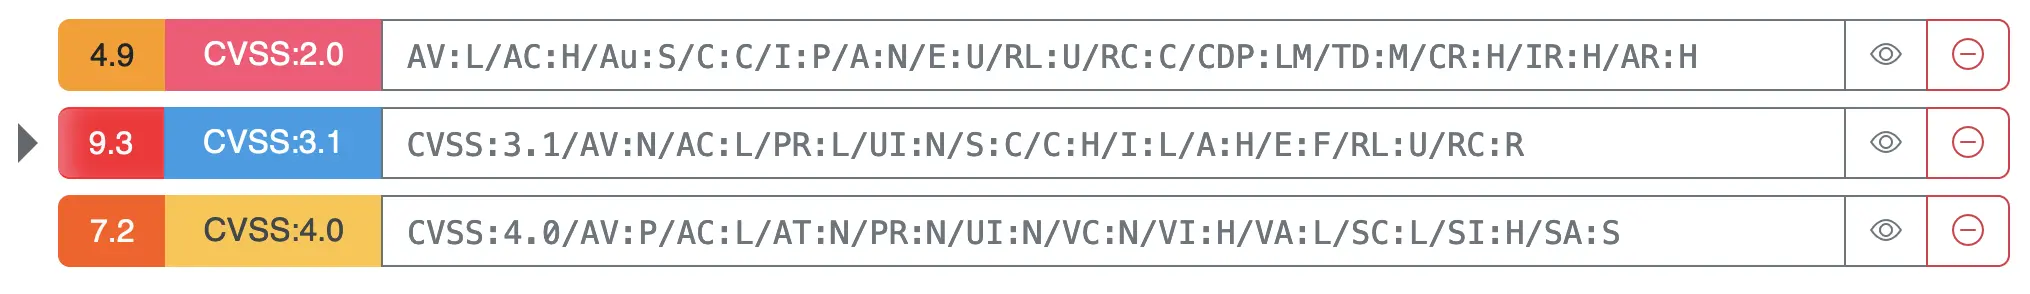
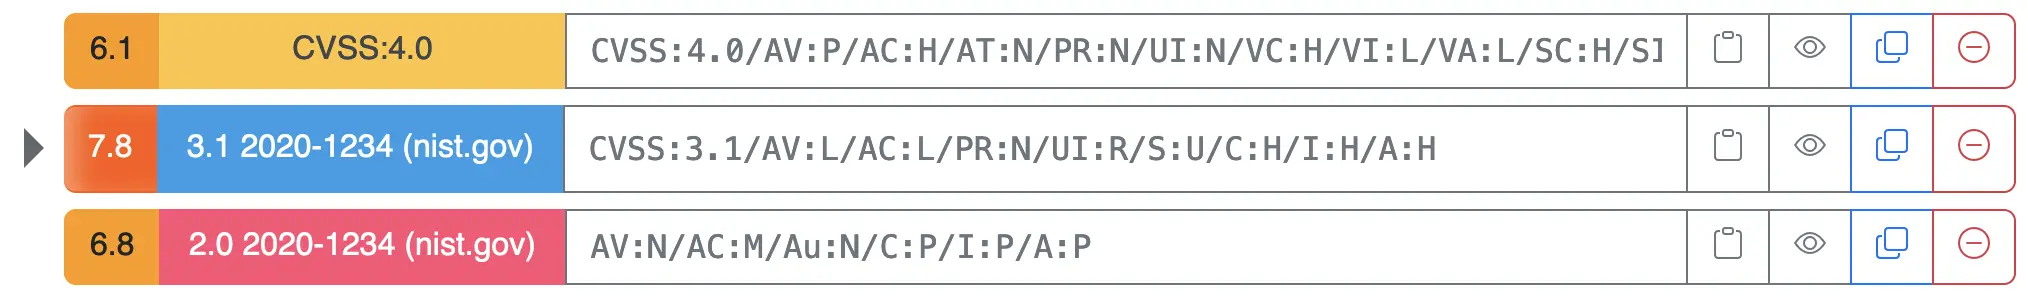
- #5 Improved NVD 2.0 API requests to be more consistent. - Vector name input fields widths will now more accurately be set to the actual content widths across the application. - Updated guide and OV images.

diff --git a/site/js/nvd-api-fetcher.js b/site/js/nvd-api-fetcher.js
@@ -15,12 +15,61 @@
  */
 
 const alreadyFetchedVulnerabilityData = {};
-const currentlyFetchingVulnerabilityData = [];
+const currentlyFetchingVulnerabilityData = new Set();
 
 const inputAddVectorByString = document.getElementById('inputAddVectorByString');
 const inputLabelDefaultContent = inputAddVectorByString.innerHTML;
 
-const fetchVulnerabilityData = async (vulnerability) => {
+function httpGet(url, params, success, failure) {
+    const queryString = Object.entries(params).map(([key, value]) => `${encodeURIComponent(key)}=${encodeURIComponent(value)}`).join('&');
+    const fullUrl = Object.keys(params).length > 0 ? `${url}?${queryString}` : url;
+
+    console.log('Fetching data from:', fullUrl);
+
+    const xhr = (() => {
+        let xhr = new XMLHttpRequest();
+        if ("withCredentials" in xhr) {
+            xhr.open('GET', fullUrl, true);
+        } else if (typeof XDomainRequest !== "undefined") {
+            xhr = new XDomainRequest();
+            xhr.open('GET', fullUrl);
+        } else {
+            return null;
+        }
+        return xhr;
+    })();
+
+    if (!xhr) {
+        console.error('CORS not supported, cannot fetch data from:', fullUrl);
+        failure('CORS not supported');
+        return;
+    }
+
+    xhr.onload = () => {
+        let response;
+        try {
+            response = JSON.parse(xhr.responseText);
+        } catch (e) {
+            console.error('Error parsing result:', e);
+            failure(e);
+            return;
+        }
+
+        try {
+            console.log('Success:', response);
+            success(response);
+        } catch (e) {
+            console.error('Error processing result:', e);
+            failure(e);
+        }
+    };
+
+    xhr.onerror = () => failure();
+
+    xhr.send();
+}
+
+async function fetchVulnerabilityData(vulnerability) {
     if (!vulnerability || vulnerability === 'null' || vulnerability === 'undefined') {
         return null;
     }
@@ -28,95 +77,63 @@ const fetchVulnerabilityData = async (vulnerability) => {
         return alreadyFetchedVulnerabilityData[vulnerability];
     }
 
-    if (currentlyFetchingVulnerabilityData.includes(vulnerability)) {
+    if (currentlyFetchingVulnerabilityData.has(vulnerability)) {
         console.log('Already fetching data for', vulnerability, '... waiting for it to finish.');
-        while (currentlyFetchingVulnerabilityData.includes(vulnerability)) {
-            await new Promise(resolve => setTimeout(resolve, 100));
-        }
+        await new Promise(resolve => {
+            const check = () => {
+                if (!currentlyFetchingVulnerabilityData.has(vulnerability)) resolve();
+                else setTimeout(check, 100);
+            };
+            check();
+        });
         return alreadyFetchedVulnerabilityData[vulnerability];
     }
-    currentlyFetchingVulnerabilityData.push(vulnerability);
 
-    setTimeout(() => {
-        removeCurrentlyFetchingVulnerabilityData(vulnerability);
-    }, 10000);
+    currentlyFetchingVulnerabilityData.add(vulnerability);
+    changeInputAddVectorByStringState('loading');
 
-    inputAddVectorByString.classList.remove('btn-success');
-    inputAddVectorByString.classList.remove('btn-warning');
-    inputAddVectorByString.classList.remove('btn-danger');
-    inputAddVectorByString.classList.add('btn-secondary');
-
-    inputAddVectorByString.innerHTML = '<span class="spinner-border spinner-border-sm" role="status" aria-hidden="true"></span> &nbsp;NVD';
-
-
-    const url = `https://services.nvd.nist.gov/rest/json/cves/2.0?cveId=${vulnerability}`;
-    console.log('Fetching data from:', url)
-    try {
-        const response = await fetch(url, {
-            method: 'GET',
-            headers: {
-                'User-Agent': 'Mozilla/5.0 (Windows NT 10.0; Win64; x64; rv:104.0) Gecko/20100101 Firefox/104.0',
-                'Accept': 'application/json',
-                'Access-Control-Allow-Origin': '*', // I know this is no use, but I want to believe that the NVD just stays online some day for more than 5 minutes at a time.
-            }
+    return new Promise((resolve, reject) => {
+        httpGet('https://services.nvd.nist.gov/rest/json/cves/2.0', { cveId: vulnerability }, data => {
+            alreadyFetchedVulnerabilityData[vulnerability] = data;
+            currentlyFetchingVulnerabilityData.delete(vulnerability);
+            changeInputAddVectorByStringState('success');
+            resolve(data);
+        }, error => {
+            currentlyFetchingVulnerabilityData.delete(vulnerability);
+            changeInputAddVectorByStringState('error');
+            createBootstrapToast('Error fetching data', 'Error fetching data for ' + vulnerability + ': ' + error, 'danger');
+            reject(error);
         });
-        if (!response.ok) {
-            console.log(response.status)
-            const isServerError = response.status >= 500 && response.status < 600;
-            inputAddVectorByString.classList.remove('btn-secondary');
-            inputAddVectorByString.classList.remove('btn-success');
-            inputAddVectorByString.classList.remove('btn-warning');
-            inputAddVectorByString.classList.remove('btn-danger');
-            if (isServerError) {
-                inputAddVectorByString.classList.add('btn-warning');
-            } else {
-                inputAddVectorByString.classList.add('btn-danger');
-            }
+    });
+}
 
-            removeCurrentlyFetchingVulnerabilityData(vulnerability);
-            if (currentlyFetchingVulnerabilityData.length === 0) {
-                inputAddVectorByString.innerHTML = inputLabelDefaultContent;
-            }
-
-            throw new Error(`HTTP error! status: ${response.status}`);
-        }
-        const json = await response.json();
-        alreadyFetchedVulnerabilityData[vulnerability] = json;
-
-        inputAddVectorByString.classList.remove('btn-secondary');
-        removeCurrentlyFetchingVulnerabilityData(vulnerability);
-        if (currentlyFetchingVulnerabilityData.length === 0) {
-            inputAddVectorByString.innerHTML = inputLabelDefaultContent;
-        }
-
-        inputAddVectorByString.classList.remove('btn-danger');
-        inputAddVectorByString.classList.remove('btn-warning');
-        inputAddVectorByString.classList.add('btn-success');
-
-        console.log(json)
-
-        return json;
-    } catch (error) {
-        console.error('Error fetching data:', error);
-
-        inputAddVectorByString.classList.remove('btn-secondary');
-        inputAddVectorByString.classList.remove('btn-success');
-        inputAddVectorByString.classList.remove('btn-warning');
-        inputAddVectorByString.classList.remove('btn-danger');
-        inputAddVectorByString.classList.add('btn-danger');
-
-        removeCurrentlyFetchingVulnerabilityData(vulnerability);
-        if (currentlyFetchingVulnerabilityData.length === 0) {
-            inputAddVectorByString.innerHTML = inputLabelDefaultContent;
-        }
-    } finally {
-        removeCurrentlyFetchingVulnerabilityData(vulnerability);
+function changeInputAddVectorByStringState(state) {
+    inputAddVectorByString.classList.remove('btn-success', 'btn-warning', 'btn-danger', 'btn-secondary');
+    if (currentlyFetchingVulnerabilityData.size !== 0 && (state === 'success' || state === 'error' || state === 'default')) {
+        state = 'loading';
     }
-};
+    switch (state) {
+        case 'loading':
+            inputAddVectorByString.classList.add('btn-secondary');
+            inputAddVectorByString.innerHTML = '<span class="spinner-border spinner-border-sm" role="status" aria-hidden="true"></span> &nbsp;NVD';
+            break;
+        case 'success':
+            inputAddVectorByString.classList.add('btn-success');
+            inputAddVectorByString.innerHTML = inputLabelDefaultContent;
+            break;
+        case 'error':
+            inputAddVectorByString.classList.add('btn-danger');
+            inputAddVectorByString.innerHTML = inputLabelDefaultContent;
+            break;
+        default:
+            inputAddVectorByString.innerHTML = inputLabelDefaultContent;
+    }
+}
 
 function removeCurrentlyFetchingVulnerabilityData(vulnerability) {
-    if (currentlyFetchingVulnerabilityData.includes(vulnerability)) {
-        currentlyFetchingVulnerabilityData.splice(currentlyFetchingVulnerabilityData.indexOf(vulnerability), 1);
+    currentlyFetchingVulnerabilityData.delete(vulnerability);
+    if (currentlyFetchingVulnerabilityData.size === 0) {
+        changeInputAddVectorByStringState('default');
     }
 }
 

diff --git a/site/js/scripts.js b/site/js/scripts.js
@@ -367,7 +367,7 @@ class CvssVectorRepresentation {
         return [domElement, scoreDisplayButton, nameElement, vectorStringElement, copyVectorToClipboardButton, visibilityToggleButton, cloneButton, removeButton];
     }
 
-    findRealRenderedTextWidthWithFontOfElement(referenceElement, text) {
+    static findRealRenderedTextWidthWithFontOfElement(referenceElement, text) {
         const tempElement = document.createElement('span');
         tempElement.style.visibility = 'hidden';
         tempElement.style.position = 'absolute';
@@ -401,10 +401,12 @@ class CvssVectorRepresentation {
             }
         }
 
-        const actualWidth = this.findRealRenderedTextWidthWithFontOfElement(this.nameElement, maxLengthName);
+        const actualWidth = CvssVectorRepresentation.findRealRenderedTextWidthWithFontOfElement(this.nameElement, maxLengthName);
+        // this calculation should be unnecessary now considering the change with adding the maxWidth attribute below, but I will still include it for now.
         const targetSize = actualWidth / (actualWidth < 100 ? 6 : (actualWidth < 165 ? 5.2 : (actualWidth < 270 ? 5 : (actualWidth < 320 ? 4.4 : (actualWidth < 380 ? 4 : (3))))));
         for (let vector of cvssVectors) {
             vector.nameElement.size = targetSize;
+            vector.nameElement.style.maxWidth = actualWidth + 30 + 'px';
         }
     }
 
@@ -1232,7 +1234,6 @@ Security requirements: ${securityRequirements}`;
         // copy the vector container html content to the duplicated section
         if (selectedVectorContainerInstance) {
             selectedCvssDuplicatedSection.innerHTML = selectedVectorContainerInstance.domElement.outerHTML;
-            selectedCvssDuplicatedSection.getElementsByClassName('cvss-vector-name')[0].value = selectedVectorContainerInstance.name;
             selectedCvssDuplicatedSection.getElementsByClassName('cvss-vector-string')[0].value = selectedVectorContainerInstance.cvssInstance.toString();
             selectedCvssDuplicatedSection.firstChild.classList.remove('cvss-active-selection');
 
@@ -1256,6 +1257,14 @@ Security requirements: ${securityRequirements}`;
                 } else {
                     vectorElement.domElement.classList.remove('upper-vector-selected');
                 }
+            }
+
+            const cvssNameInputElements = selectedCvssDuplicatedSection.getElementsByClassName('cvss-vector-name');
+            if (cvssNameInputElements.length > 0) {
+                const cvssNameInputElement = cvssNameInputElements[0];
+                cvssNameInputElement.value = selectedVectorContainerInstance.name;
+                const cvssNameInputElementTargetWidth = CvssVectorRepresentation.findRealRenderedTextWidthWithFontOfElement(cvssNameInputElement, cvssNameInputElement.value);
+                cvssNameInputElement.style.maxWidth = (cvssNameInputElementTargetWidth + 30) + 'px';
             }
 
             updateTooltip(selectedCvssDuplicatedSection);
@@ -2127,7 +2136,7 @@ function loadDemo() {
 
 setTimeout(() => {
     const currentHtmlVersion = document.getElementById('cvss-calculator-current-version').innerText;
-    if (currentHtmlVersion !== '1.0.14') {
+    if (currentHtmlVersion !== '1.0.15') {
         createBootstrapToast('New version available', 'A new version of the CVSS Calculator is available. Please refresh the page to load the new version or clear the cache.', 'info', 10 * 1000);
     }
     const changelogBody = document.getElementById('cvss-calculator-changelog-body');

diff --git a/site/index.html b/site/index.html
@@ -295,7 +295,7 @@ limitations under the License.
             <div class="col-lg-2 mb-2">
                 <i class="bi bi-braces-asterisk me-1"></i>
                 <a data-bs-toggle="modal" data-bs-target="#changelogModal" href="#" class="footer-link">
-                    <span id="cvss-calculator-current-version">1.0.14</span> <span style="opacity: 40%">&nbsp;(2024-02-23)</span>
+                    <span id="cvss-calculator-current-version">1.0.15</span> <span style="opacity: 40%">&nbsp;(2024-02-26)</span>
                 </a>
             </div>
         </div>
@@ -670,6 +670,20 @@ Copyright:
                 <button type="button" class="btn-close" data-bs-dismiss="modal" aria-label="Close"></button>
             </div>
             <div class="modal-body" id="cvss-calculator-changelog-body">
+                <h5>Version 1.0.15 <span class="fs-6 text-secondary ms-2">2024-02-26</span></h5>
+                <ul>
+                    <li>
+                        Issue
+                        <a href="https://github.com/org-metaeffekt/metaeffekt-universal-cvss-calculator/issues/5"
+                           target="_blank">#5</a>:
+                        Made NVD CVE API requests more consistent by using <code>XMLHttpRequest</code>s.
+                    </li>
+                    <li>
+                        Vector name input fields widths will now more accurately be set to the actual content widths
+                        across the application.
+                    </li>
+                </ul>
+                <hr>
                 <h5>Version 1.0.14 <span class="fs-6 text-secondary ms-2">2024-02-23</span></h5>
                 <ul>
                     <li>
